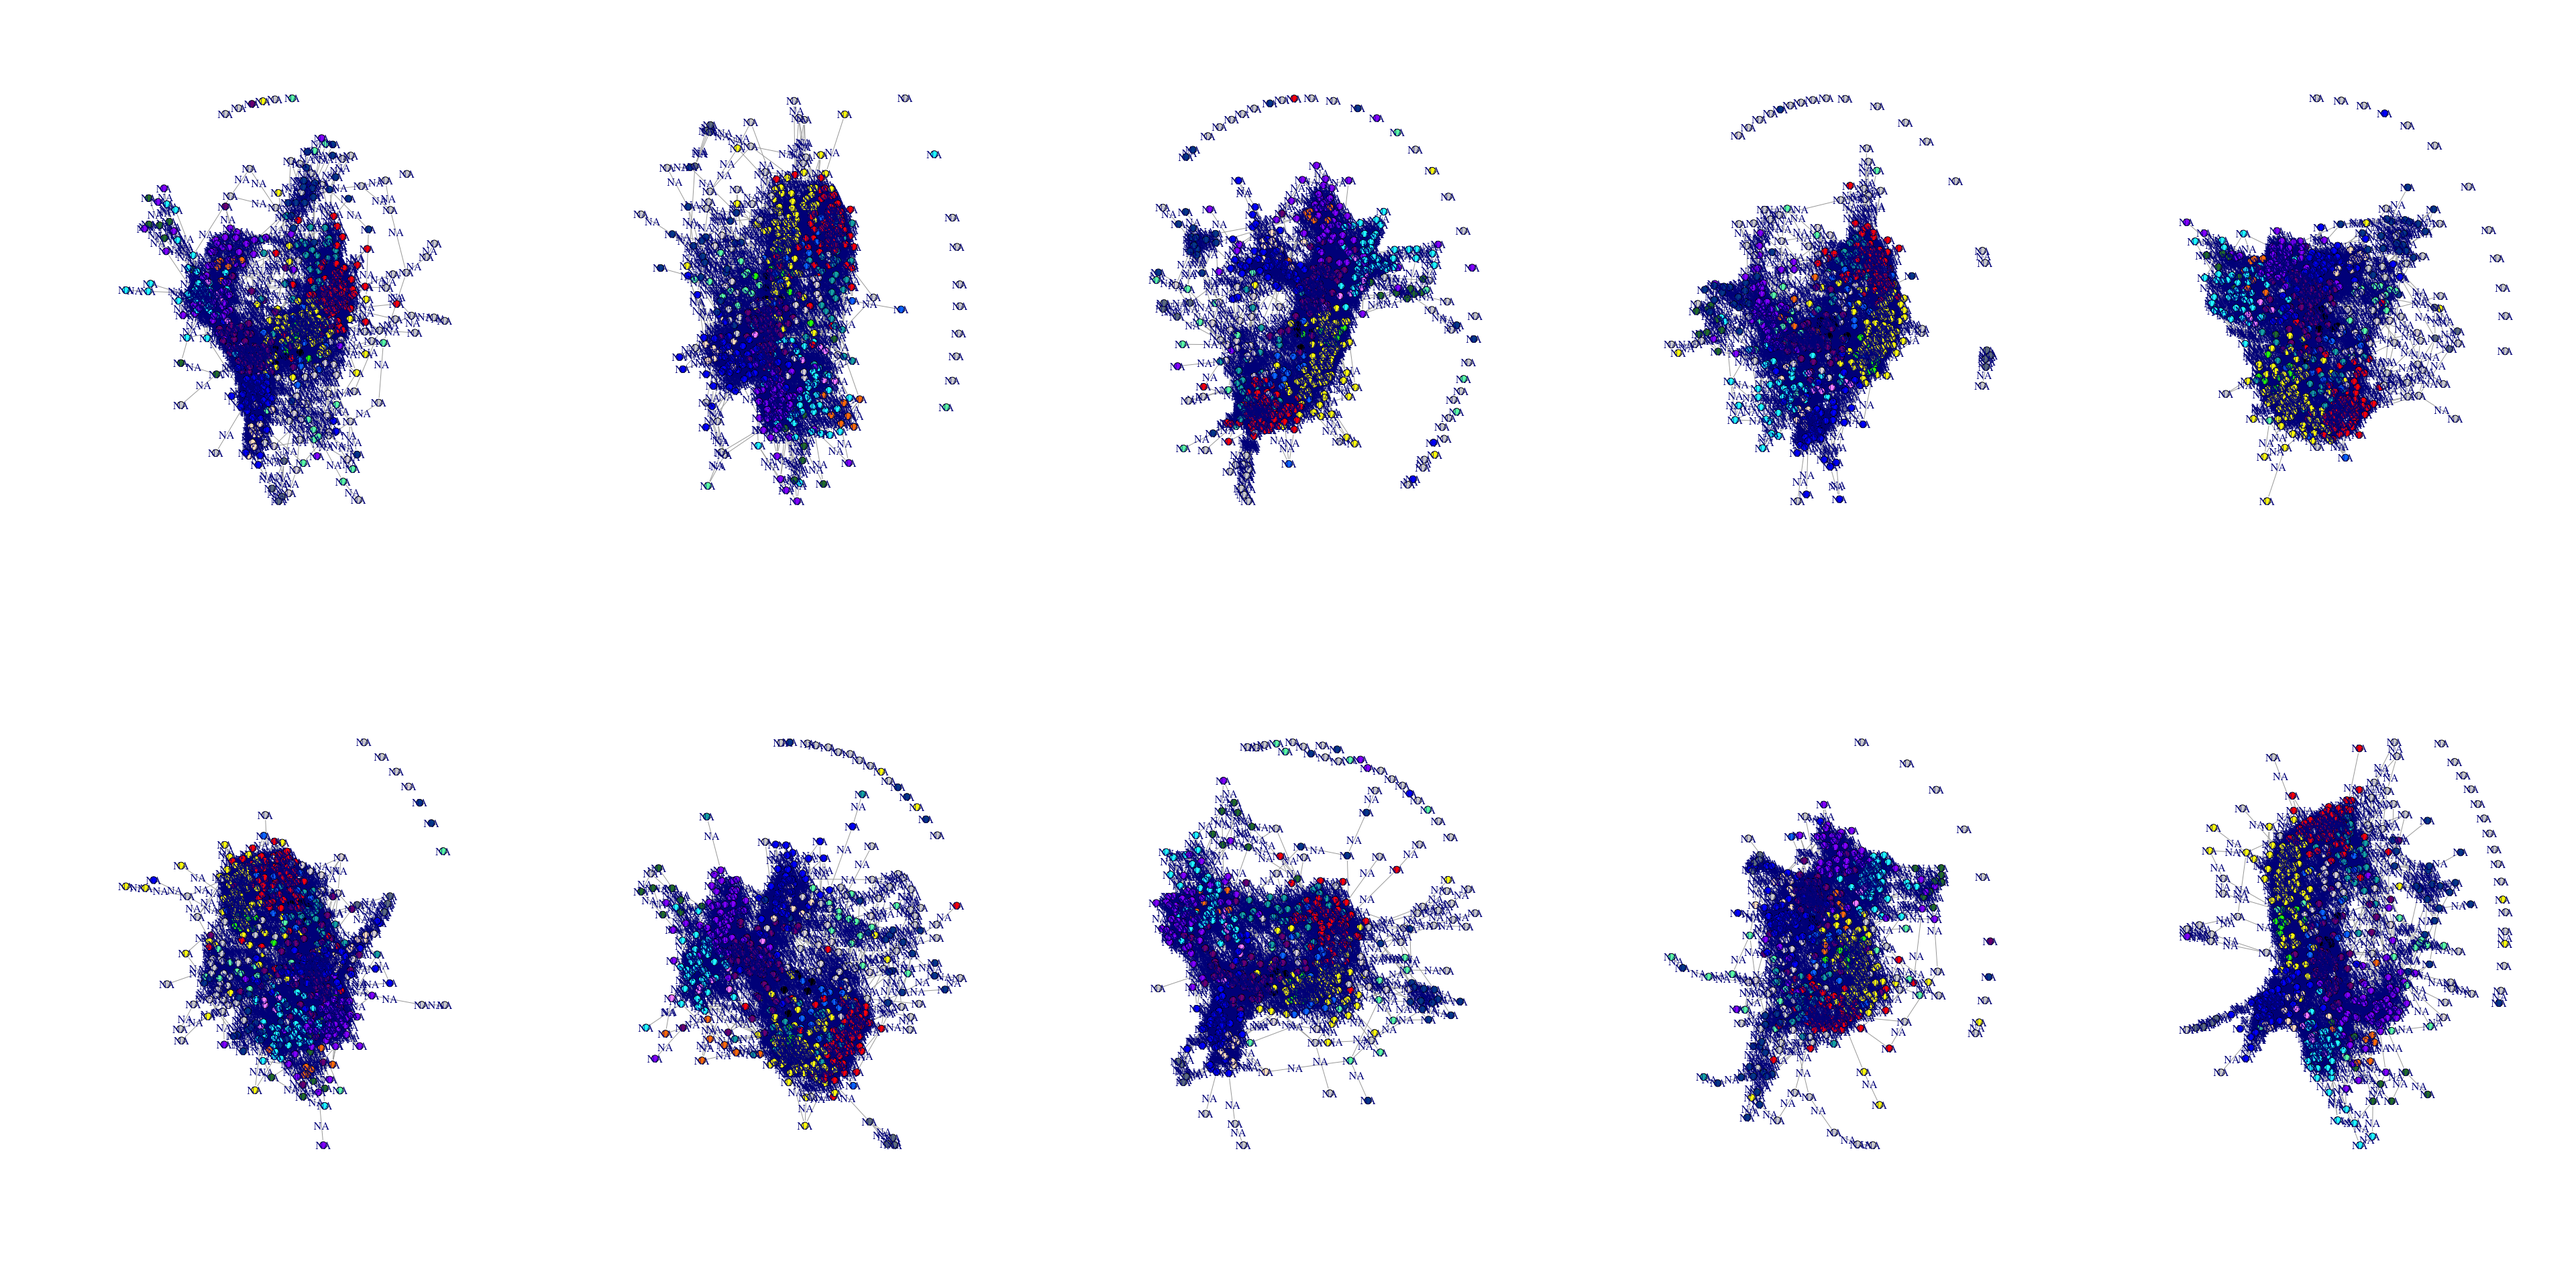
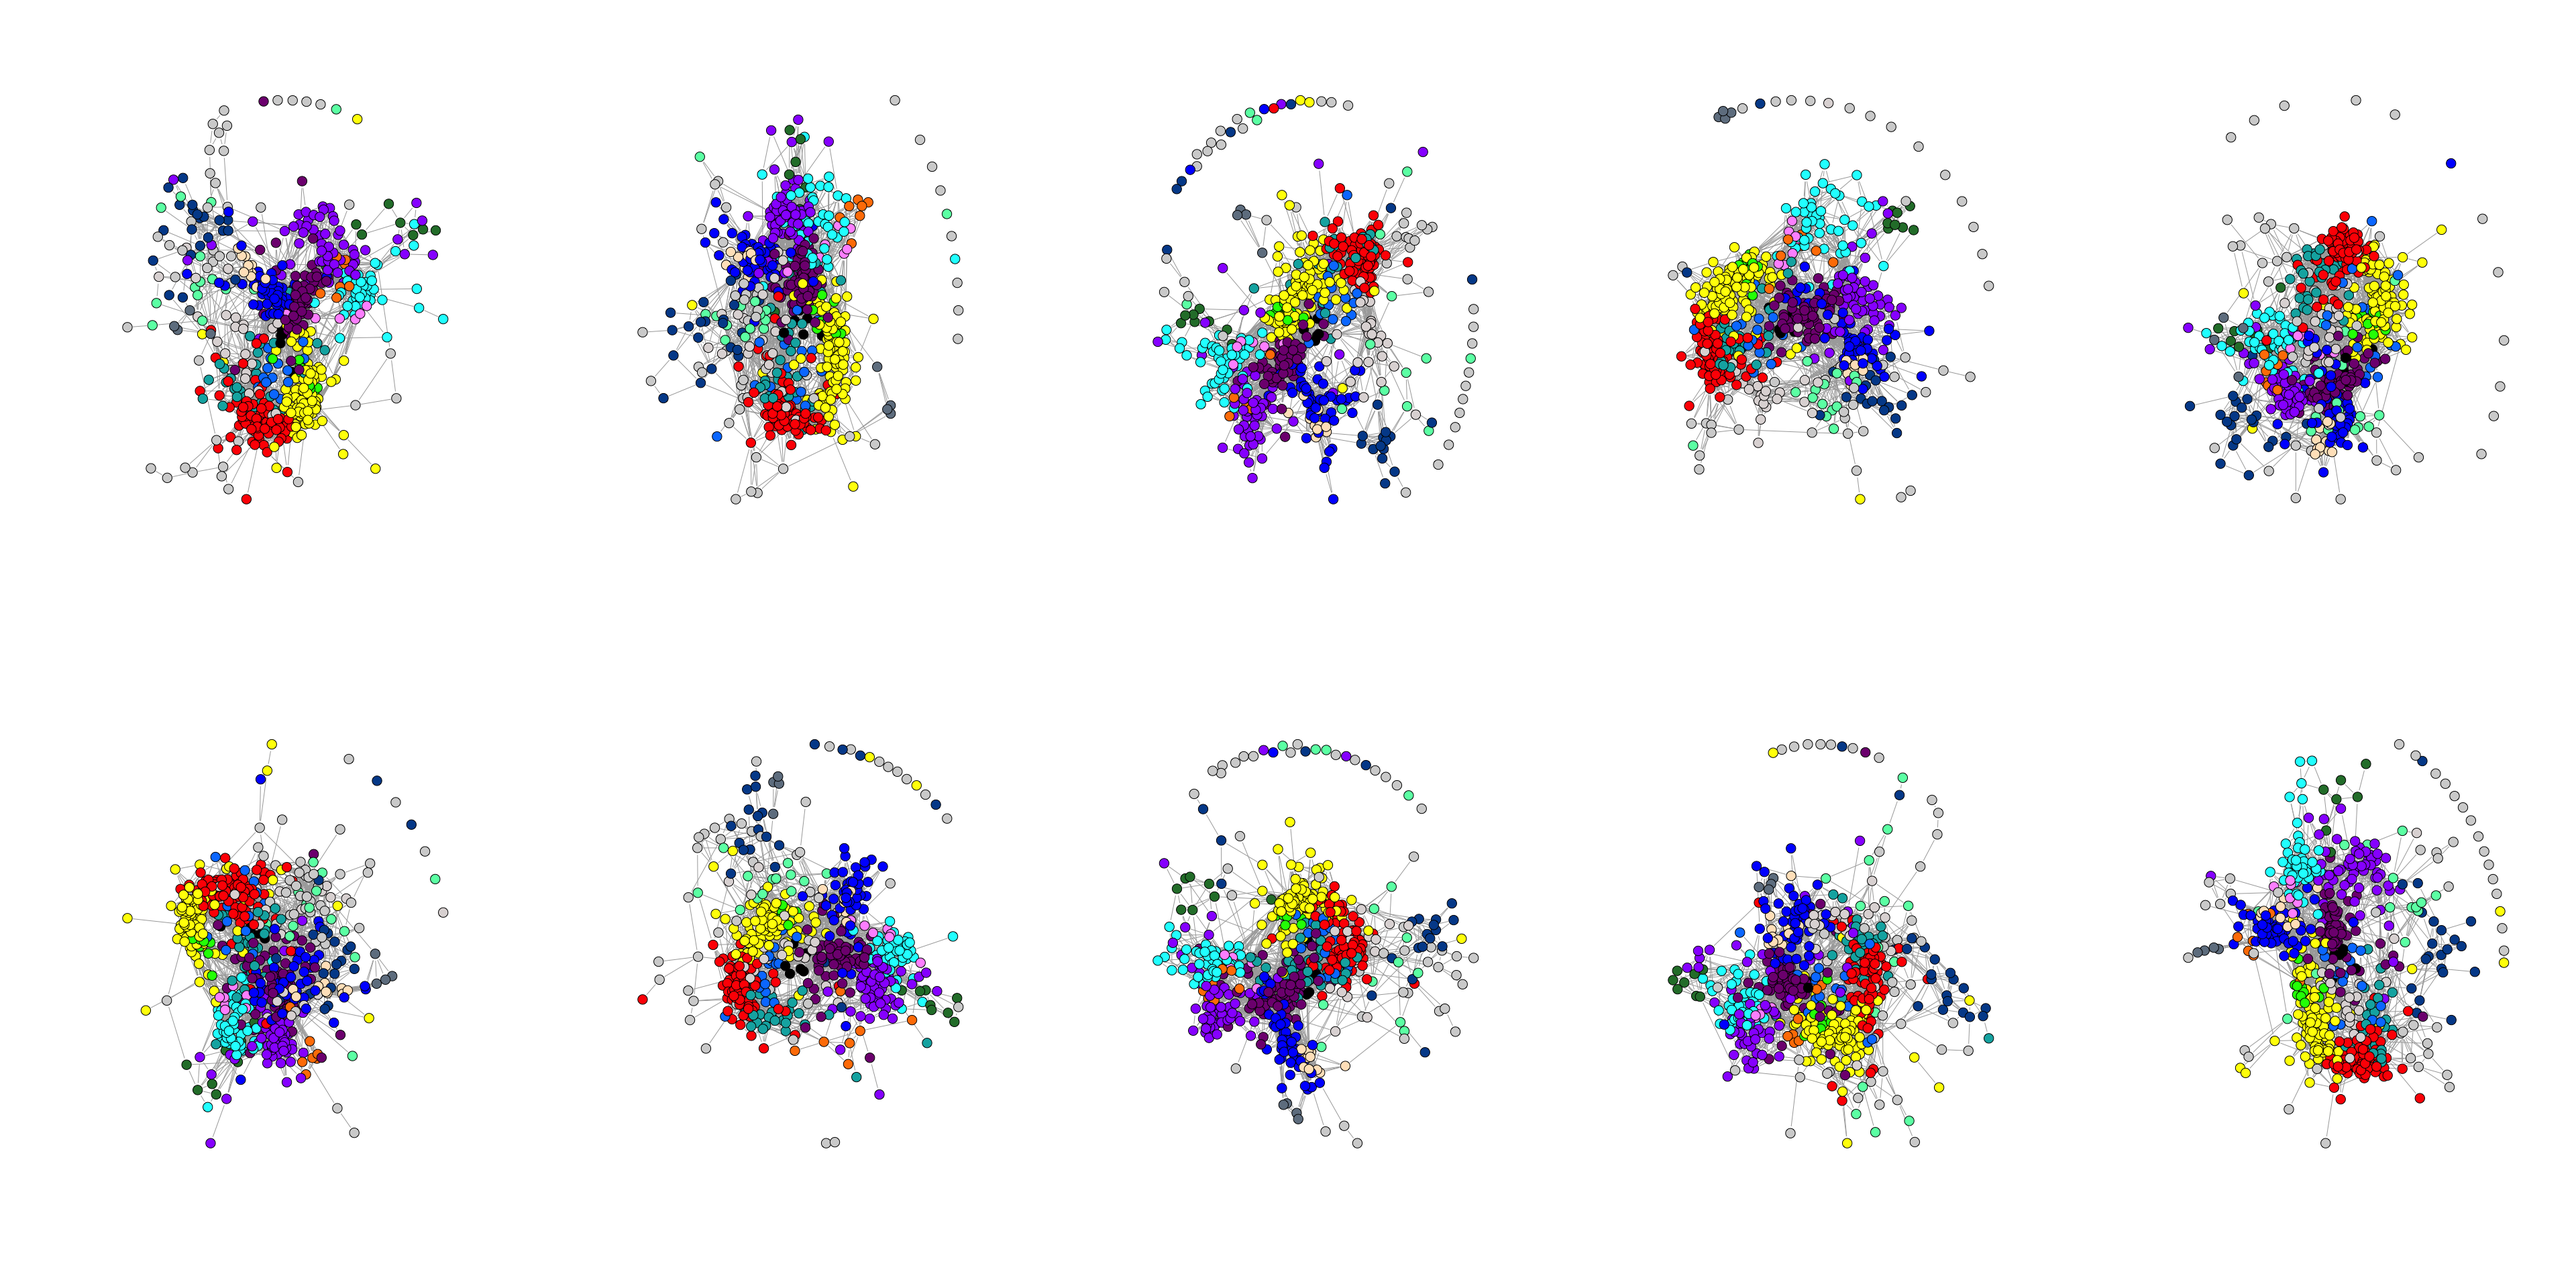
Spring-embdded graph of all 10 MSC subjects at 4% edge density
* Added 2 lines of code to fix "NA" being displaced as vertex labels

diff --git a/des_MSC/DisplayMSC_SpringEmbedded.md b/des_MSC/DisplayMSC_SpringEmbedded.md
@@ -161,7 +161,7 @@ Here are the heatmaps of all 10 sessions arranged by each subject
 zmat.path <- "../data/zmat"
 springlist <- list()
 springlist_i <- 1
-for(subj.count in 1:1){ # length(parcel.list)){
+for(subj.count in 1:length(parcel.list)){
   load(sprintf("%s/sub-MSC%02d_zcube_rcube.RData",zmat.path,subj.count))
   springlist[[subj.count]] <- list()
   for(session.count in 1:dim(cubes$rcube)[3]){
@@ -177,8 +177,11 @@ for(subj.count in 1:1){ # length(parcel.list)){
     V(net)$community <- parcel.list[[subj.name[subj.count]]]$vox.des$Comm
     net <- simplify(net, remove.multiple = F, remove.loops = T) 
     
-    springlist[[subj.count]][[session.count]]  <- as.grob(function() plot(net, layout=layout_with_fr, vertex.label=NA, vertex.size=5, vertex.color=parcel.list[[subj.name[subj.count]]]$vox.des$Comm.Col, alpha=.6))
-     
+    springlist[[subj.count]][[session.count]]  <- as.grob(function() plot(net, layout=layout_with_fr, vertex.label=NA, vertex.size=7, vertex.color=parcel.list[[subj.name[subj.count]]]$vox.des$Comm.Col, alpha=.6))
+   
+    # Remove NA that turns into text labels for nodes
+    springlist[[subj.count]][[session.count]]$children$`graphics-plot-1-text-1`$label <- ""
+    springlist[[subj.count]][[session.count]]$children$`graphics-plot-1-text-2`$label <- ""
   }
 }
 ```
@@ -186,3 +189,39 @@ for(subj.count in 1:1){ # length(parcel.list)){
     ## [1] "sub01"
 
 ![](DisplayMSC_SpringEmbedded_files/figure-markdown_github/plot_all_sub_session_spring-1.png)
+
+    ## [1] "sub02"
+
+![](DisplayMSC_SpringEmbedded_files/figure-markdown_github/plot_all_sub_session_spring-2.png)
+
+    ## [1] "sub03"
+
+![](DisplayMSC_SpringEmbedded_files/figure-markdown_github/plot_all_sub_session_spring-3.png)
+
+    ## [1] "sub04"
+
+![](DisplayMSC_SpringEmbedded_files/figure-markdown_github/plot_all_sub_session_spring-4.png)
+
+    ## [1] "sub05"
+
+![](DisplayMSC_SpringEmbedded_files/figure-markdown_github/plot_all_sub_session_spring-5.png)
+
+    ## [1] "sub06"
+
+![](DisplayMSC_SpringEmbedded_files/figure-markdown_github/plot_all_sub_session_spring-6.png)
+
+    ## [1] "sub07"
+
+![](DisplayMSC_SpringEmbedded_files/figure-markdown_github/plot_all_sub_session_spring-7.png)
+
+    ## [1] "sub08"
+
+![](DisplayMSC_SpringEmbedded_files/figure-markdown_github/plot_all_sub_session_spring-8.png)
+
+    ## [1] "sub09"
+
+![](DisplayMSC_SpringEmbedded_files/figure-markdown_github/plot_all_sub_session_spring-9.png)
+
+    ## [1] "sub010"
+
+![](DisplayMSC_SpringEmbedded_files/figure-markdown_github/plot_all_sub_session_spring-10.png)
